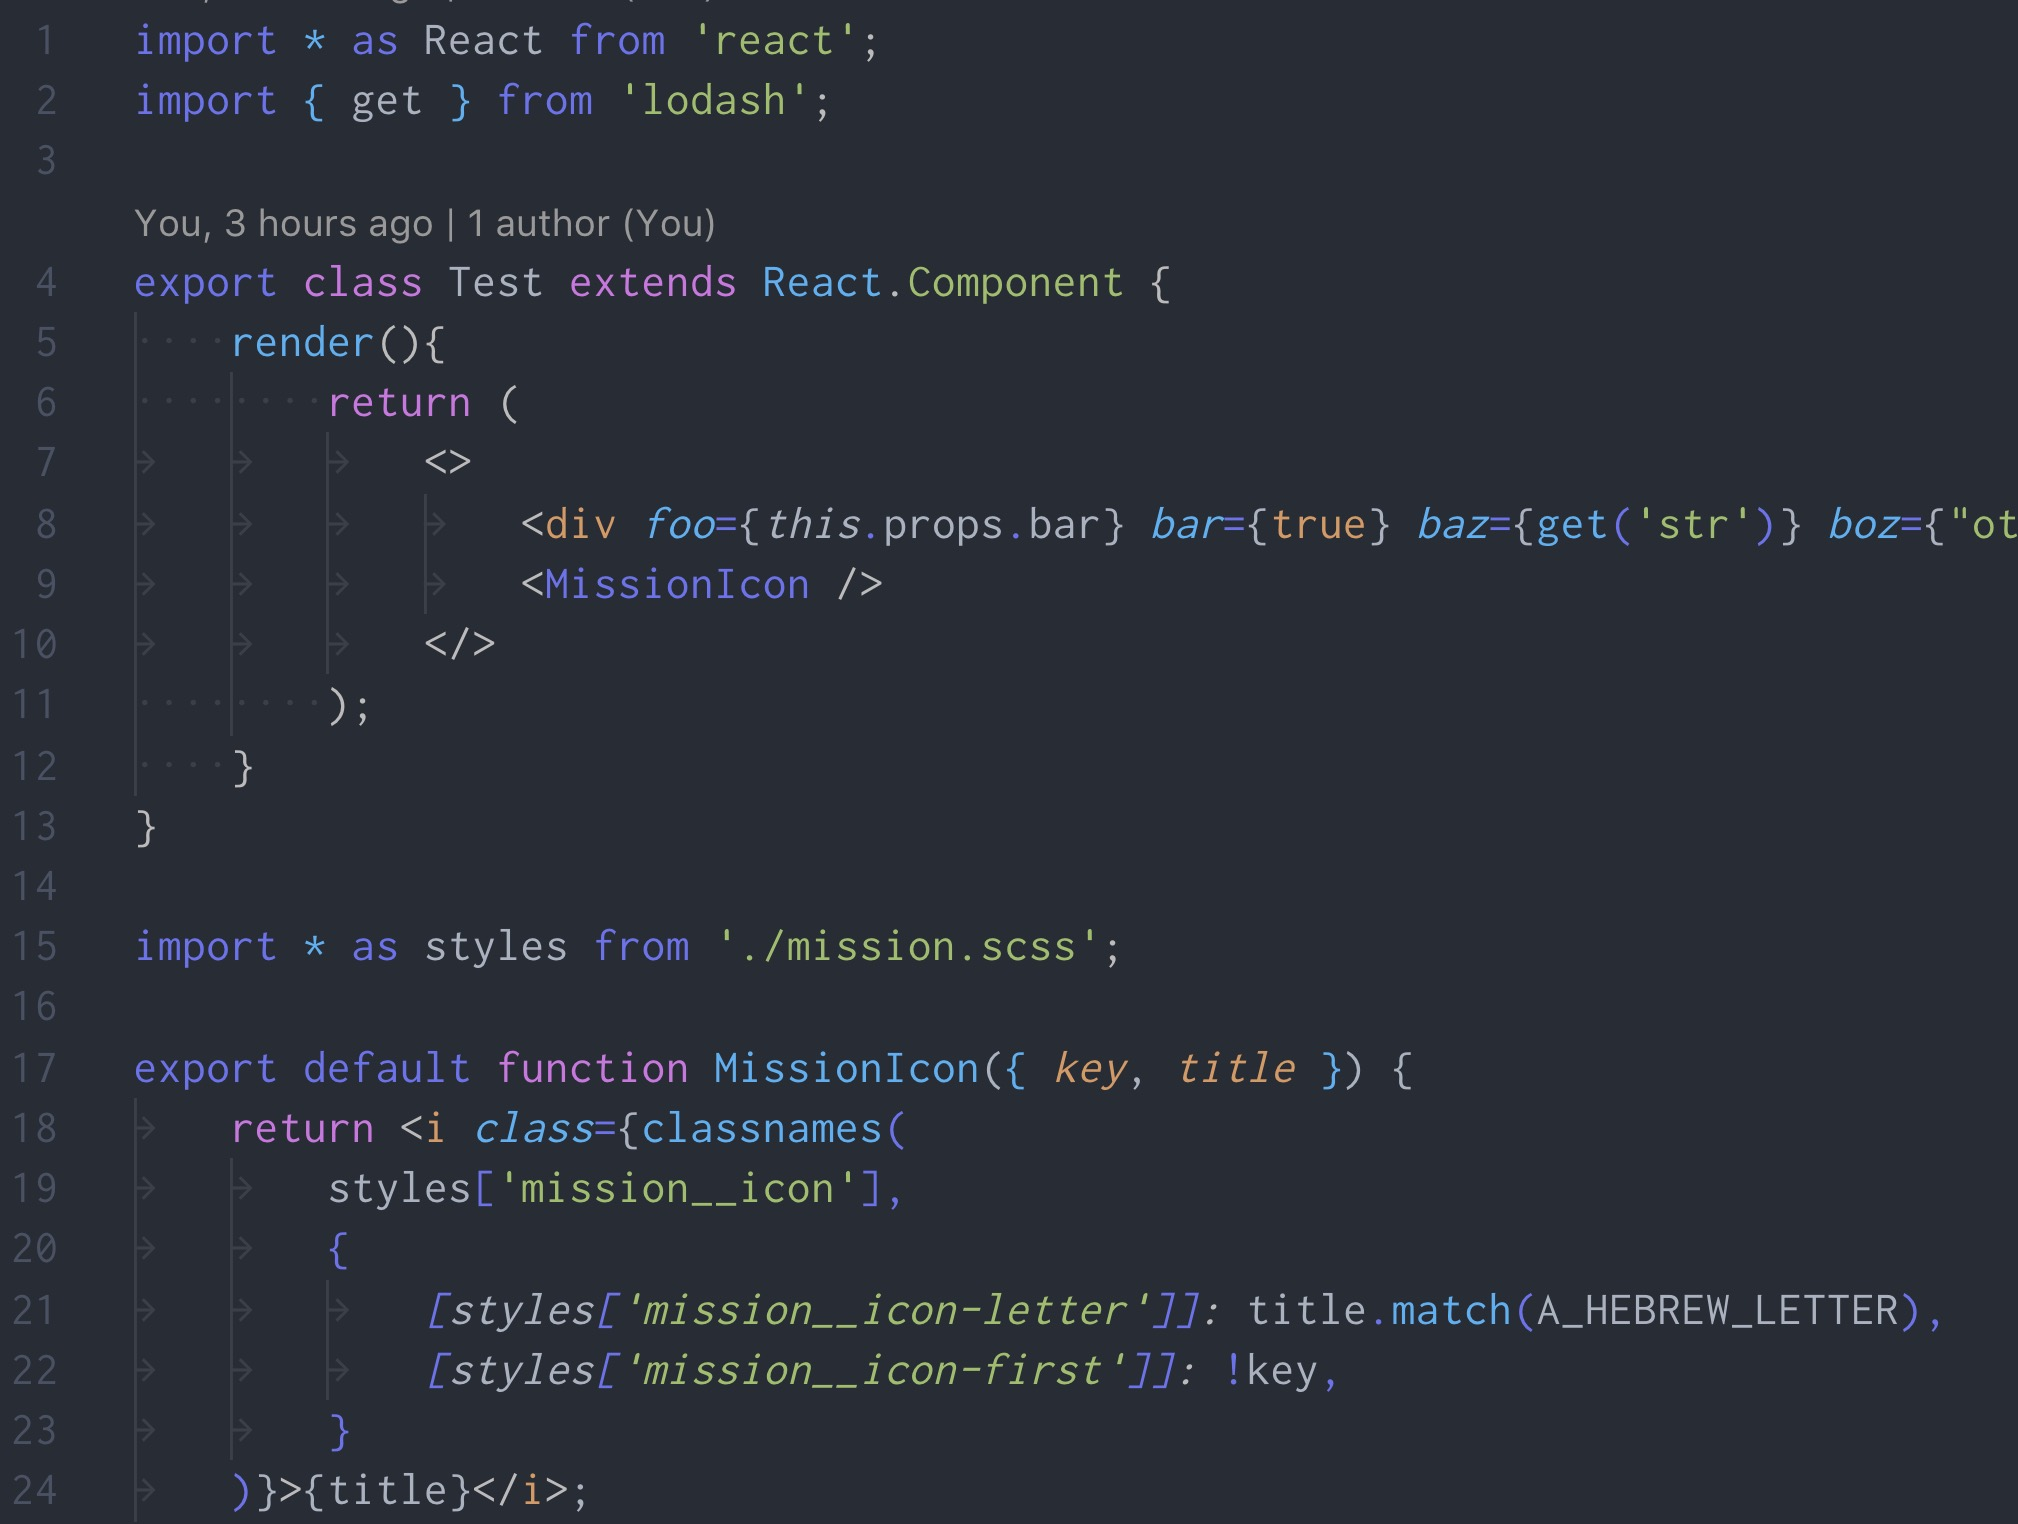
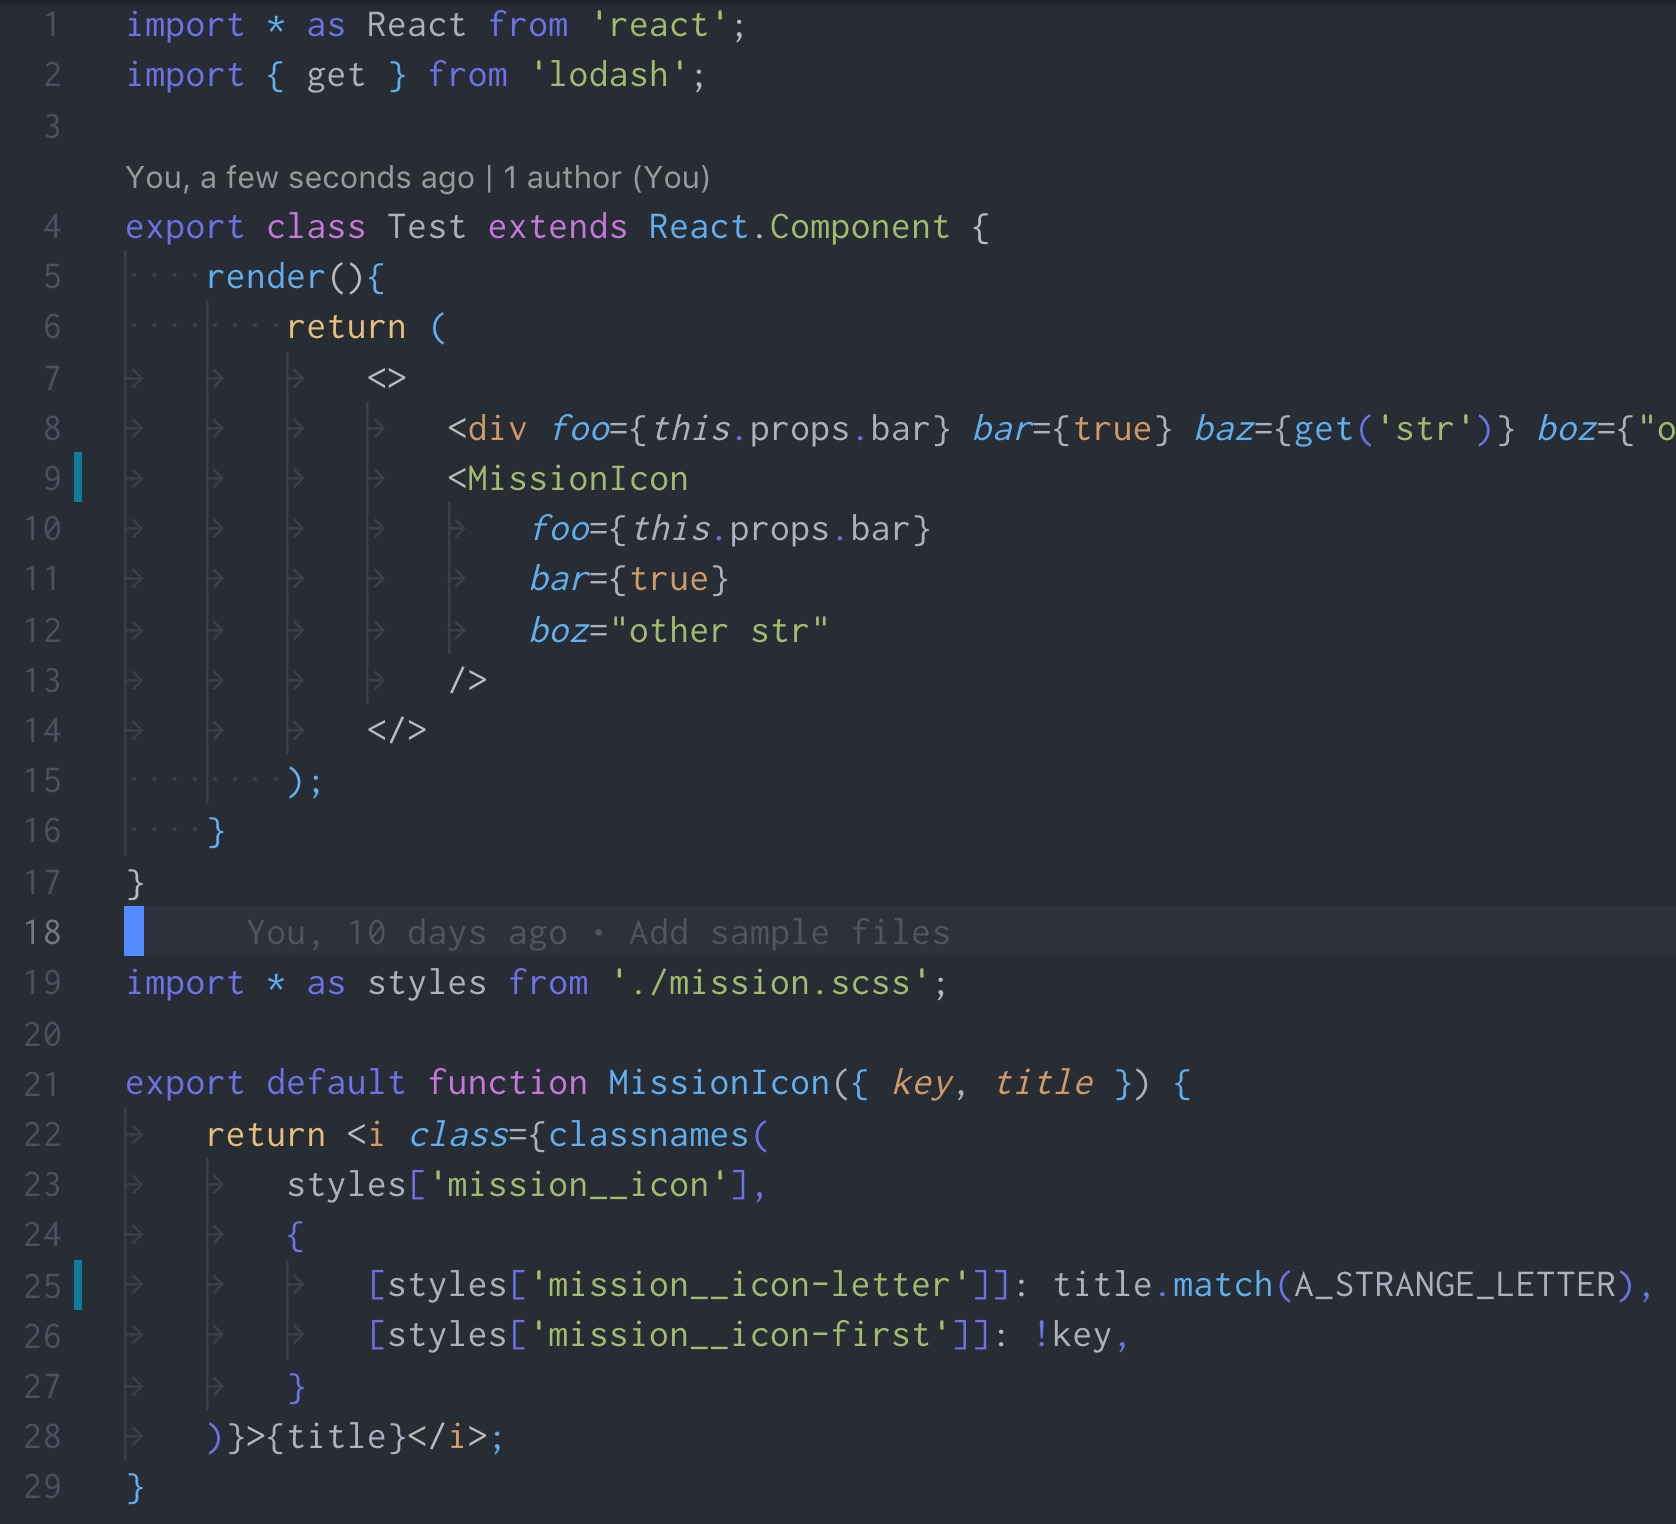
Update screenshot

diff --git a/samples/sample.jsx b/samples/sample.jsx
@@ -6,7 +6,7 @@ export class Test extends React.Component {
         return (
 			<>
 				<div foo={this.props.bar} bar={true} baz={get('str')} boz={"other str"}></div>
-				<MissionIcon 
+				<MissionIcon
 					foo={this.props.bar}
 					bar={true}
 					boz="other str"
@@ -22,7 +22,7 @@ export default function MissionIcon({ key, title }) {
 	return <i class={classnames(
 		styles['mission__icon'],
 		{
-			[styles['mission__icon-letter']]: title.match(A_HEBREW_LETTER),
+			[styles['mission__icon-letter']]: title.match(A_STRANGE_LETTER),
 			[styles['mission__icon-first']]: !key,
 		}
 	)}>{title}</i>;

diff --git a/samples/sample.tsx b/samples/sample.tsx
@@ -22,7 +22,7 @@ export default function MissionIcon({ key, title }) {
 	return <i class={classnames(
 		styles['mission__icon'],
 		{
-			[styles['mission__icon-letter']]: ifj ++ title.match(A_HEBREW_LETTER),
+			[styles['mission__icon-letter']]: ifj ++ title.match(A_STRANGE_LETTER),
 			[styles['mission__icon-first']]: !key,
 		}
 	)}>{title}</i>;
